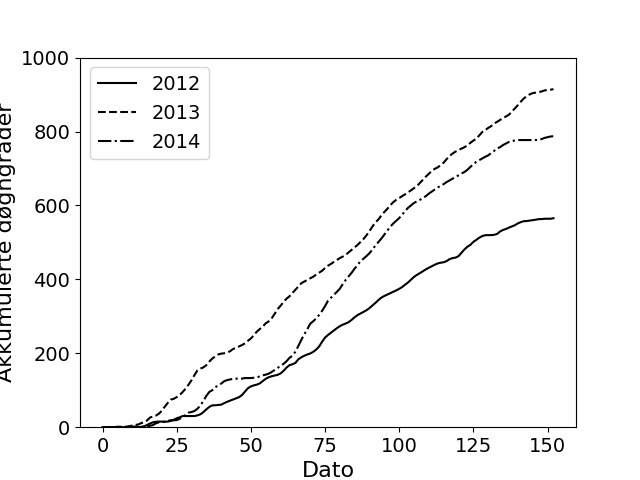
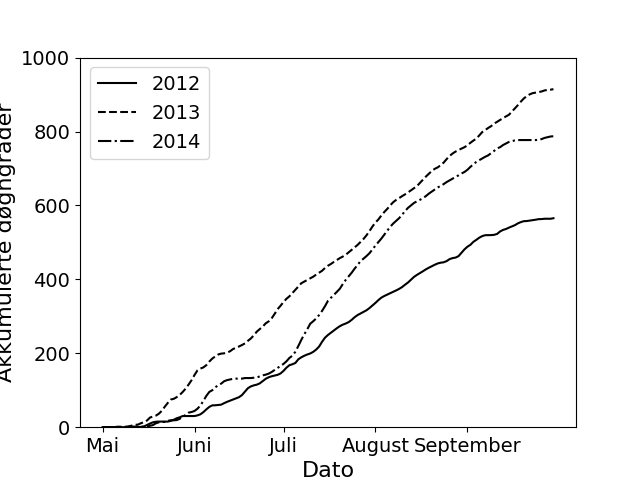
iteration 3

diff --git a/plot.py b/plot.py
@@ -38,9 +38,6 @@ for i in lines:
     except:
         print(i)
 
-print(date)
-
-
 x = np.arange(len(date))
 
 linestyle = ["-","--","-.",":"]
@@ -55,6 +52,20 @@ plt.legend()
 plt.ylabel("Akkumulerte døgngrader")
 plt.xlabel("Dato")
 plt.ylim(0,1000)
+
+mndSkift = [0,31,61,92,123]
+mnd = ["Mai","Juni","Juli","August", "September"]
+
+plt.xticks(mndSkift, mnd)
+#plt.xticklabels(mnd)
+
+for i in mndSkift:
+    print(date[i])
+print(date[0])
+print(date[31])
+print(date[61])
+print(date[92])
+print(date[123])
 
 plt.savefig("plot.png")
 
